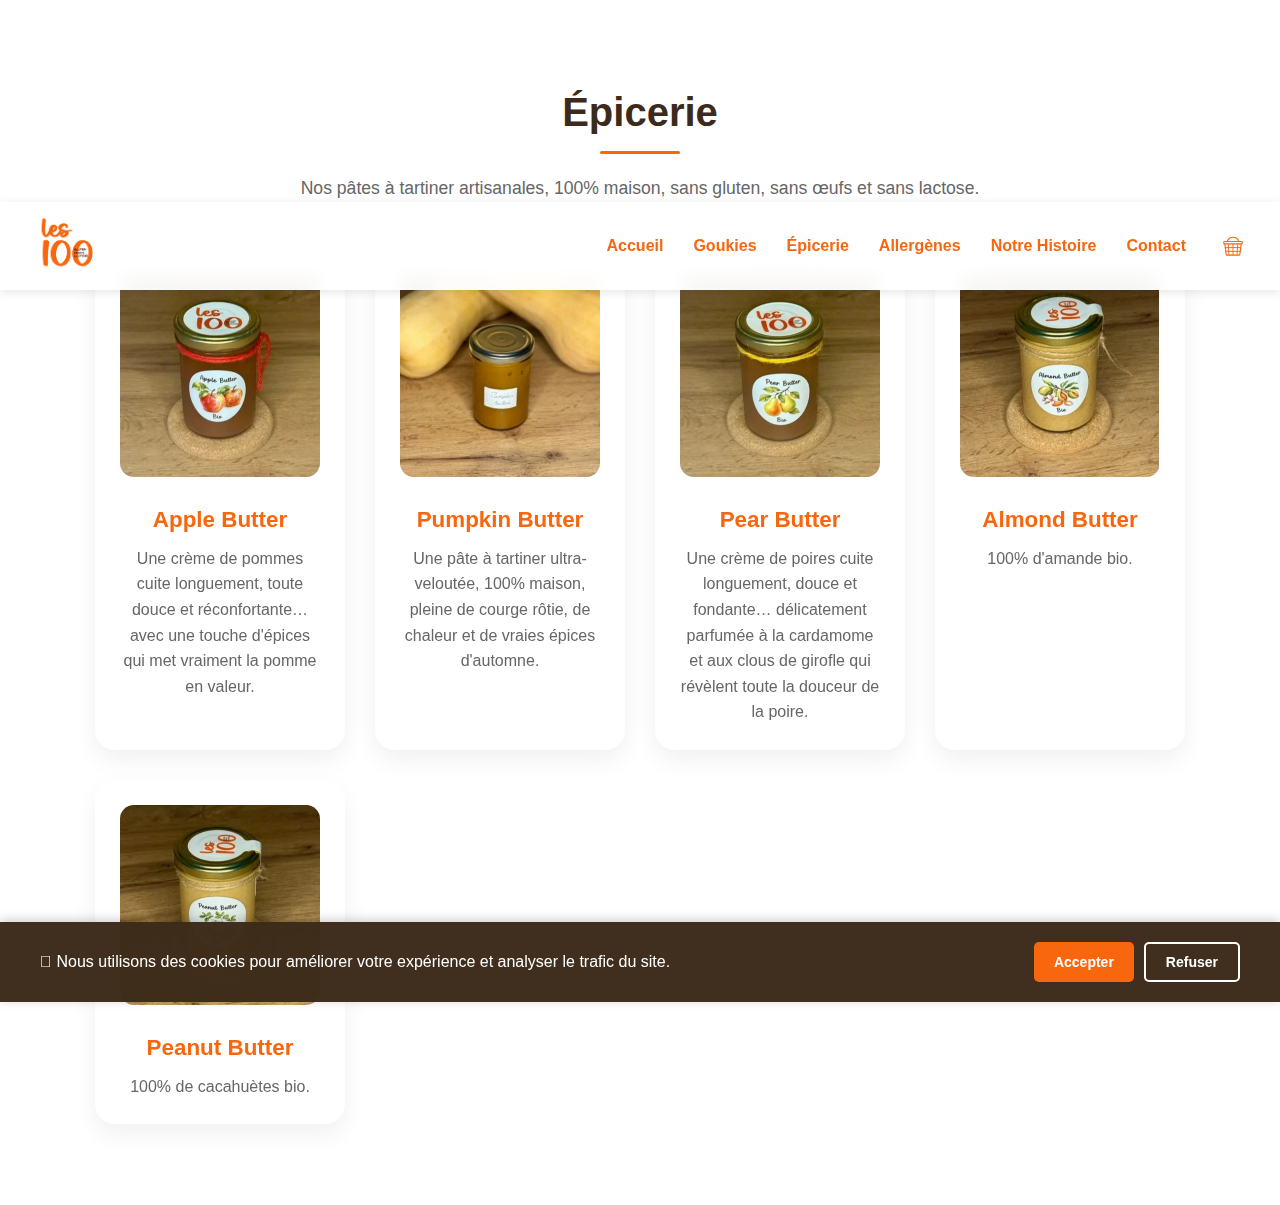
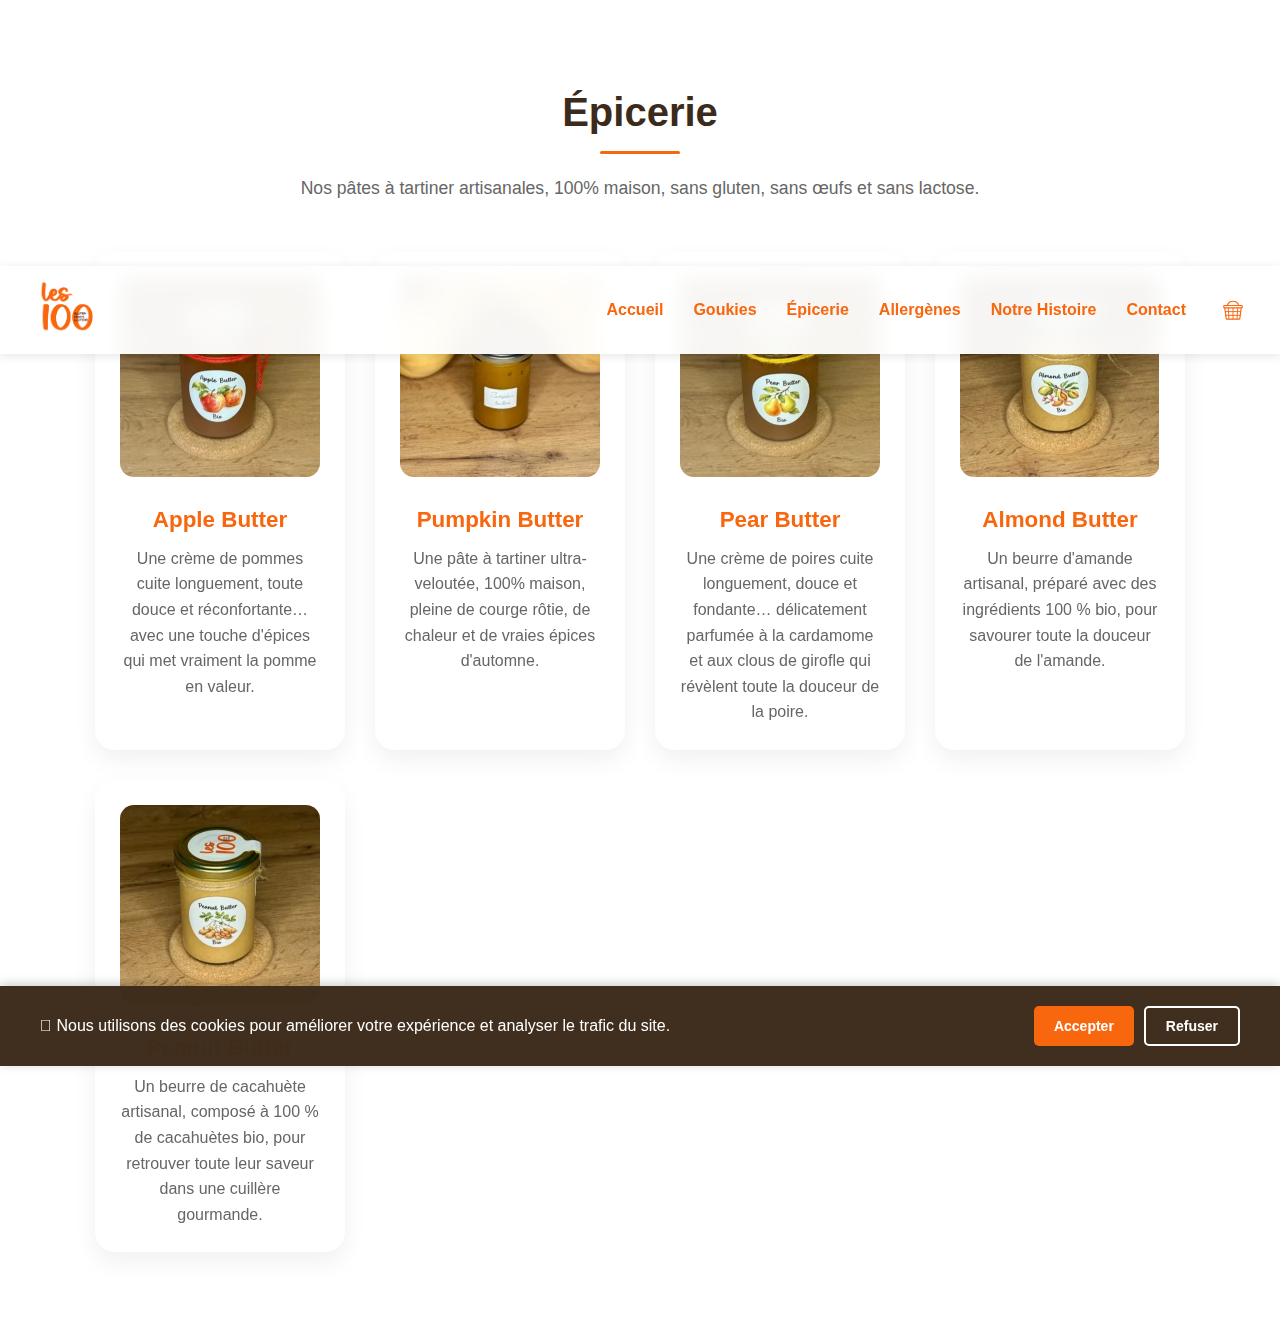
feat(les-100): ingredients du Le 31 et descriptifs Almond / Peanut Butter (cliente)
Ordre 2026-11-01-1910, textes de la cliente relayes par Matteo (Telegram 13971) :
- le-31 : 6 ingredients dans l'ordre donne (Butternut, Farine de riz, Sucre de
  canne non raffine, Compote de pomme, Pomme bio, Epices de Noel). Le bloc
  ingredients se reaffiche : le masquage de Goukie-detail.js ne joue que sur
  une liste vide.
- almond-butter et peanut-butter : descriptifs de la cliente mot pour mot, dans
  Goukies.json (fiche) et sur les cards de epicerie.html (CRLF conserve).
  Ingredients des deux pots inchanges.
- sw.js non modifie : Goukies.json et les .html sont servis en network-first.

Verification : goukie-du-mois-le31.verif.mjs vert (attentes mises a jour :
6 ingredients, bloc affiche, descriptifs fiche + card), catalogue-novembre vert,
0 erreur console. SABOTAGE_VERIF=1 : 31 echecs, exit 1. Temoin reel sur les
fichiers d'origin/main (copie jetable) : exactement les 6 rouges attendus.

Claude-Session: https://claude.ai/code/session_01L42hMKxiv2JpoHrgjN5JxZ

Changed region(s): [[0.2188, 0.0614, 0.9688, 0.6141], [0.0, 0.1842, 1.0, 0.9212]]

diff --git a/epicerie.html b/epicerie.html
@@ -134,13 +134,13 @@
                 <a href="Goukie-detail.html?id=almond-butter" class="Goukie-card">
                     <img src="goukie_images/almond_butter.webp" alt="Almond Butter">
                     <h3>Almond Butter</h3>
-                    <p>100% d'amande bio.</p>
+                    <p>Un beurre d'amande artisanal, préparé avec des ingrédients 100 % bio, pour savourer toute la douceur de l'amande.</p>
                 </a>
 
                 <a href="Goukie-detail.html?id=peanut-butter" class="Goukie-card">
                     <img src="goukie_images/peanut_butter.webp" alt="Peanut Butter">
                     <h3>Peanut Butter</h3>
-                    <p>100% de cacahuètes bio.</p>
+                    <p>Un beurre de cacahuète artisanal, composé à 100 % de cacahuètes bio, pour retrouver toute leur saveur dans une cuillère gourmande.</p>
                 </a>
             </div>
         </div>
